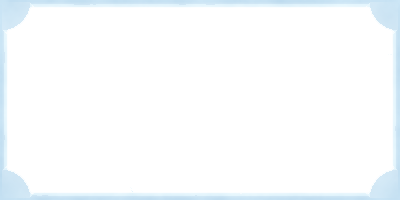
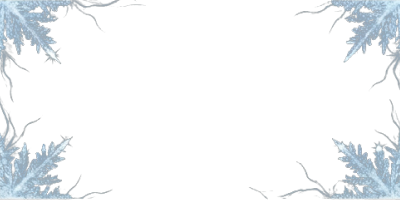
fix: use background-size cover for proper ice PNG overlay on deal cards

diff --git a/app/globals.css b/app/globals.css
@@ -190,7 +190,7 @@ body {
   pointer-events: none;
   z-index: 2;
   border-radius: inherit;
-  background-size: 100% 100%;
+  background-size: cover;
   background-position: center;
   background-repeat: no-repeat;
   filter: invert(1) hue-rotate(180deg);
